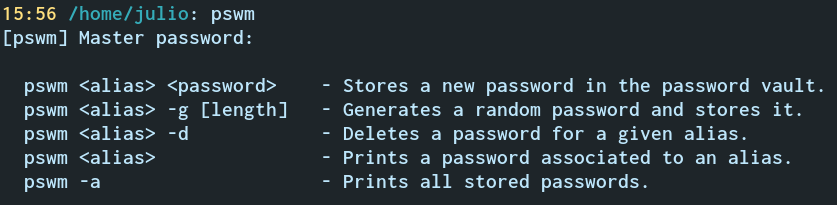
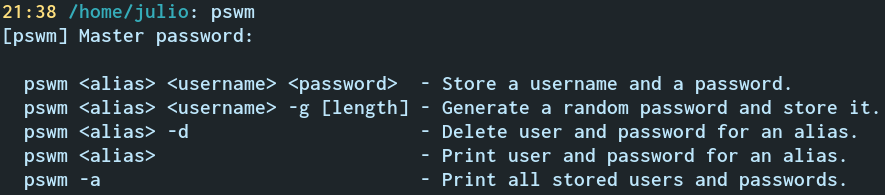
Updated readme and reference image

diff --git a/README.md b/README.md
@@ -5,11 +5,11 @@ A simple command line password manager written in python.
 
 ## Dependencies
 
-pswm uses cryptocode & bcrypt which can be installed through pip:
+pswm uses cryptocode & prettytable which can be installed through pip:
 
 ```
 pip3 install cryptocode
-pip3 install py-bcrypt
+pip3 install prettytable
 ```
 
 It has been tested with Python 3.8.10. 
@@ -32,17 +32,16 @@ The program can now be ran from a terminal with the command `pswm`.
 ## Usage
 
 When running pswm for the first time, you will be prompted to define a master password which will be used to encrypt your other passwords. 
-The master password is salted and hashed and the hash is stored in a file named `.$pswm$` inside your home folder. 
 
 If you forget your master password, pswm will give you the option to reset it after three failed attempts. This would **delete** all your saved passwords, since they would be encrypted with your old master password and impossible to decrypt without it. You should store your master password somewhere safe or choose something you will always remember.
 
 After choosing a master password, a password vault will be created as a file named `.pswm` inside your home folder, to store your encrypted passwords. You can use any of the following commands to access your password vault:
 ```
-  pswm <alias> <password>    - Stores a new password in the password vault.
-  pswm <alias> -g [length]   - Generates a random password and stores it.
-  pswm <alias> -d            - Deletes a password for a given alias.
-  pswm <alias>               - Prints a password associated to an alias.
-  pswm -a                    - Prints all stored passwords.
+  pswm <alias> <username> <password>  - Store a username and a password.
+  pswm <alias> <username> -g [length] - Generate a random password and store it.
+  pswm <alias> -d                     - Delete user and password for an alias.
+  pswm <alias>                        - Print user and password for an alias.
+  pswm -a                             - Print all stored users and passwords.
 ```
 
 ## License
